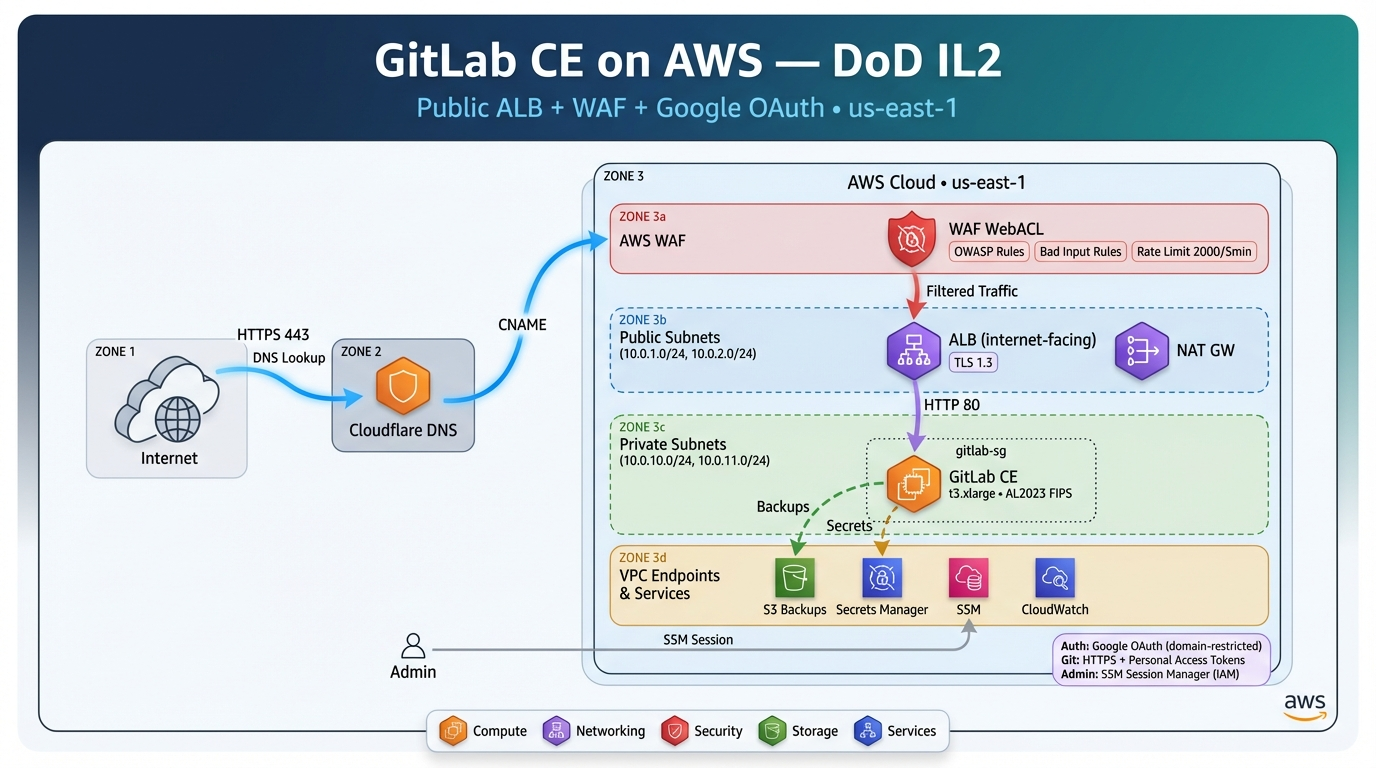
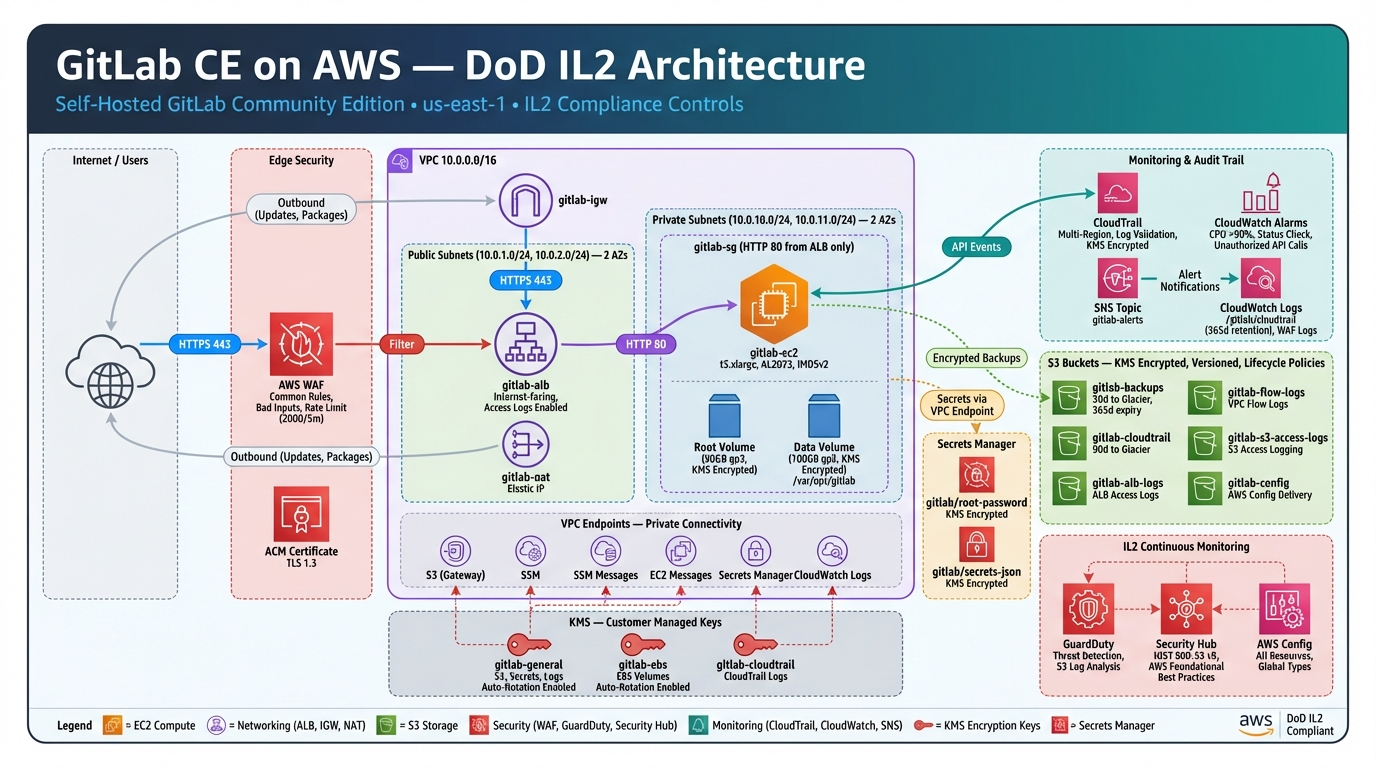
Update docs to reflect IL2 remediation: native auth + 2FA, CMK encryption, new modules, and regenerated architecture diagram

diff --git a/docs/quick-start.html b/docs/quick-start.html
@@ -128,7 +128,8 @@
   <div class="prereq">
     <p>Before you begin, ensure you have:</p>
     <ul>
-      <li>A <strong>Google Workspace</strong> account on <code>@fedrock.com</code></li>
+      <li>A <strong>GitLab account</strong> (created by your administrator)</li>
+      <li>An <strong>authenticator app</strong> for two-factor authentication (e.g., Google Authenticator, Authy, 1Password)</li>
       <li><strong>Git</strong> installed on your machine</li>
     </ul>
   </div>
@@ -136,12 +137,13 @@
   <h2>2. Connect to GitLab</h2>
   <ol>
     <li>Open your browser and navigate to: <pre><code>https://code.fedrock.com</code><button class="copy-btn" onclick="copyCode(this)">Copy</button></pre></li>
-    <li>Click <strong>"Sign in with Google"</strong></li>
-    <li>Authenticate with your <strong><code>@fedrock.com</code></strong> Google Workspace account</li>
-    <li>You'll be redirected to your GitLab dashboard</li>
+    <li>Enter your <strong>username</strong> and <strong>password</strong> provided by your administrator</li>
+    <li>On first login, you'll be prompted to set up <strong>two-factor authentication</strong> (2FA)</li>
+    <li>Scan the QR code with your authenticator app</li>
+    <li>Enter the 6-digit code to verify, then save your recovery codes</li>
   </ol>
   <div class="note">
-    <strong>First time?</strong> Your account is created automatically on first sign-in. You'll have a "Regular" role by default. Ask your admin to grant additional permissions if needed.
+    <strong>First time?</strong> Your administrator will create your account and provide initial credentials. You'll be required to set up 2FA on your first login. Store your recovery codes in a secure location.
   </div>
 
   <h2>3. Create a Personal Access Token</h2>
@@ -184,12 +186,16 @@ git config --global credential.helper 'cache --timeout=3600'</code><button class
       <td>Verify your internet connection. If the issue persists, check with your admin to confirm the service is running.</td>
     </tr>
     <tr>
-      <td><strong>Google OAuth redirect error</strong></td>
-      <td>Ensure you're signing in with your <strong>@fedrock.com</strong> Google account, not a personal one. Clear your browser cookies for the GitLab domain and try again.</td>
+      <td><strong>2FA setup not working</strong></td>
+      <td>Ensure your authenticator app's time is synced. Try a different authenticator app. If locked out, contact your administrator to reset 2FA.</td>
+    </tr>
+    <tr>
+      <td><strong>Account locked after failed logins</strong></td>
+      <td>GitLab locks accounts after multiple failed attempts. Wait 10 minutes or contact your administrator to unlock.</td>
     </tr>
     <tr>
       <td><strong>HTTPS clone asks for username</strong></td>
-      <td>Use your GitLab username (not email). For the password, use your Personal Access Token, not your Google password.</td>
+      <td>Use your GitLab username (not email). For the password, use your Personal Access Token.</td>
     </tr>
     <tr>
       <td><strong>SSL certificate error</strong></td>

diff --git a/README.md b/README.md
@@ -1,6 +1,6 @@
 # Self-Hosted GitLab on AWS
 
-Terraform infrastructure for deploying a self-hosted GitLab instance on AWS with a security-hardened network design aligned with DoD IL2 requirements. Developers access GitLab directly via HTTPS with Google OAuth authentication. The public ALB is protected by AWS WAF.
+Terraform infrastructure for deploying a self-hosted GitLab instance on AWS with a security-hardened network design aligned with DoD IL2 requirements. Developers access GitLab directly via HTTPS with native GitLab authentication and mandatory 2FA (TOTP). The public ALB is protected by AWS WAF. All encryption at rest uses Customer Managed KMS Keys with automatic annual rotation.
 
 ![Architecture Diagram](docs/architecture.png)
 
@@ -8,13 +8,23 @@ Terraform infrastructure for deploying a self-hosted GitLab instance on AWS with
 
 GitLab runs on a single EC2 instance inside private subnets. Developers connect over HTTPS to an internet-facing Application Load Balancer, which is protected by AWS WAF (OWASP common rules, known bad inputs, and rate limiting). The ALB terminates TLS 1.3 and forwards traffic to the GitLab instance over HTTP. Outbound internet access (for package updates) is routed through a NAT Gateway in the public subnets. Admin access to the instance is via SSM Session Manager only.
 
-AWS service access from the private subnets is handled via VPC endpoints (S3, SSM, Secrets Manager, CloudWatch Logs), minimizing traffic that traverses the NAT Gateway. All data is encrypted at rest using KMS or AES-256, and all S3 buckets have public access blocked with lifecycle policies that transition objects to Glacier.
+AWS service access from the private subnets is handled via VPC endpoints (S3, SSM, Secrets Manager, CloudWatch Logs), minimizing traffic that traverses the NAT Gateway. All data is encrypted at rest using Customer Managed KMS Keys, and all S3 buckets have public access blocked with lifecycle policies that transition objects to Glacier. All resources are tagged with the DoD IL2 `DataClassification` tag.
+
+Continuous monitoring is provided by multi-region CloudTrail (CMK-encrypted with CloudWatch Logs integration), GuardDuty, Security Hub (NIST 800-53 v5 and AWS best practices), AWS Config, and CloudWatch alarms with SNS alerting.
 
 ## Modules
 
+### `kms`
+
+Customer Managed KMS Keys with automatic annual rotation.
+
+- **General key** -- S3 buckets, Secrets Manager, CloudWatch Logs, SNS, VPC flow logs, WAF logs, AWS Config, Security Hub
+- **CloudTrail key** -- CloudTrail log encryption (dedicated key policy for `cloudtrail.amazonaws.com`)
+- **EBS key** -- EC2 root and data volume encryption
+
 ### `networking`
 
-VPC, subnets, route tables, NAT Gateway, security groups, VPC endpoints, and flow logs.
+VPC, subnets, route tables, NAT Gateway, security groups, VPC endpoints, flow logs, and S3 access logs bucket.
 
 - VPC (`10.0.0.0/16`) with DNS hostnames enabled
 - 2 public subnets and 2 private subnets across 2 AZs
@@ -23,18 +33,29 @@ VPC, subnets, route tables, NAT Gateway, security groups, VPC endpoints, and flo
 - Security groups for the ALB, GitLab EC2, and VPC endpoints
 - VPC interface endpoints: SSM, SSM Messages, EC2 Messages, Secrets Manager, CloudWatch Logs
 - S3 gateway endpoint via route table
-- VPC flow logs to S3
+- VPC flow logs to S3 (CMK-encrypted, 60-second aggregation)
+- S3 access logs target bucket for ALB access logs
+
+### `monitoring`
+
+Multi-region CloudTrail, CloudWatch alarms, and SNS alerting.
+
+- Multi-region CloudTrail logging to S3 with CMK encryption, log file validation, and Glacier lifecycle
+- CloudTrail integration with CloudWatch Logs for real-time log analysis
+- Unauthorized API call detection via CloudWatch metric filter
+- CloudWatch alarms for CPU utilization (>90% for 15 min) and EC2 status check failures
+- SNS topic for alarm notifications
 
 ### `gitlab`
 
 EC2 instance, EBS volumes, IAM role, S3 backup bucket, and Secrets Manager secrets.
 
 - `t3.xlarge` EC2 instance running Amazon Linux 2023
-- 50 GB encrypted root volume + 100 GB encrypted gp3 data volume (`/var/opt/gitlab`)
+- 50 GB CMK-encrypted root volume + 100 GB CMK-encrypted gp3 data volume (`/var/opt/gitlab`)
 - IMDSv2 enforced, detailed monitoring enabled
 - IAM instance profile with policies for SSM, S3 backups, Secrets Manager, and CloudWatch Logs
-- S3 backup bucket with versioning, KMS encryption, and Glacier lifecycle
-- Secrets Manager entries for root password, OAuth credentials, and `gitlab-secrets.json`
+- S3 backup bucket with versioning, CMK encryption, and Glacier lifecycle
+- Secrets Manager entries for root password and `gitlab-secrets.json` (CMK-encrypted)
 
 ### `alb`
 
@@ -44,24 +65,26 @@ Internet-facing Application Load Balancer, target group, HTTPS listener, ACM cer
 - HTTPS listener on port 443 with TLS 1.3 policy (`ELBSecurityPolicy-TLS13-1-2-2021-06`)
 - ACM certificate with email validation
 - Target group forwarding HTTP port 80 with health checks on `/-/health`
-- Access logs to a dedicated S3 bucket with Glacier lifecycle
+- Access logs to the S3 access logs bucket (managed by the `networking` module) with Glacier lifecycle
 - Deletion protection enabled
 
 ### `waf`
 
-AWS WAF WebACL with managed rules and rate limiting.
+AWS WAF WebACL with managed rules, rate limiting, and logging.
 
 - OWASP common rules (AWS Managed Rules Common Rule Set)
 - Known bad inputs rule group
 - Rate limiting to protect against abuse
 - Associated with the internet-facing ALB
+- WAF logging to CloudWatch Logs (CMK-encrypted)
 
-### `monitoring`
+### `security`
 
-CloudTrail and CloudWatch alarms.
+GuardDuty, Security Hub, and AWS Config for IL2 continuous monitoring.
 
-- CloudTrail logging to S3 with log file validation and Glacier lifecycle
-- CloudWatch alarms for CPU utilization (>90% for 15 min) and EC2 status check failures
+- Amazon GuardDuty threat detection
+- AWS Security Hub with NIST 800-53 v5 and AWS Foundational Security Best Practices standards
+- AWS Config recorder and delivery channel (CMK-encrypted S3 bucket)
 
 ## Prerequisites
 
@@ -69,7 +92,6 @@ CloudTrail and CloudWatch alarms.
 - Terraform >= 1.0
 - A domain name with DNS managed in Cloudflare
 - Cloudflare account with DNS zone for your domain
-- Google OAuth credentials (for GitLab SSO)
 
 ## Usage
 
@@ -80,6 +102,17 @@ terraform init
 terraform plan
 terraform apply
 ```
+
+Key variables in `terraform.tfvars`:
+
+| Variable | Description | Default |
+|----------|-------------|---------|
+| `aws_region` | AWS region for deployment | `us-east-1` |
+| `domain_name` | Domain name for GitLab (e.g., `gitlab.example.com`) | -- |
+| `instance_type` | EC2 instance type | `t3.xlarge` |
+| `data_volume_size` | GitLab data EBS volume size (GB) | `100` |
+| `backup_replication_region` | Region for backup cross-region replication | `us-west-2` |
+| `data_classification` | DoD data classification level | `IL2` |
 
 After `terraform apply`, approve the ACM certificate validation email sent to the
 domain's admin contacts (admin@yourdomain.com, etc.). This is a one-time manual step.
@@ -98,7 +131,7 @@ DNS is managed via Cloudflare, outside of Terraform. After deployment:
 2. In Cloudflare, create a CNAME record:
    - **Name:** `gitlab` (or your subdomain)
    - **Target:** The ALB DNS name from step 1
-   - **Proxy status:** Proxied (orange cloud) — since the ALB is internet-facing, Cloudflare proxy mode can be enabled for additional DDoS protection and caching
+   - **Proxy status:** Proxied (orange cloud) -- since the ALB is internet-facing, Cloudflare proxy mode can be enabled for additional DDoS protection and caching
 
 ## Outputs
 
